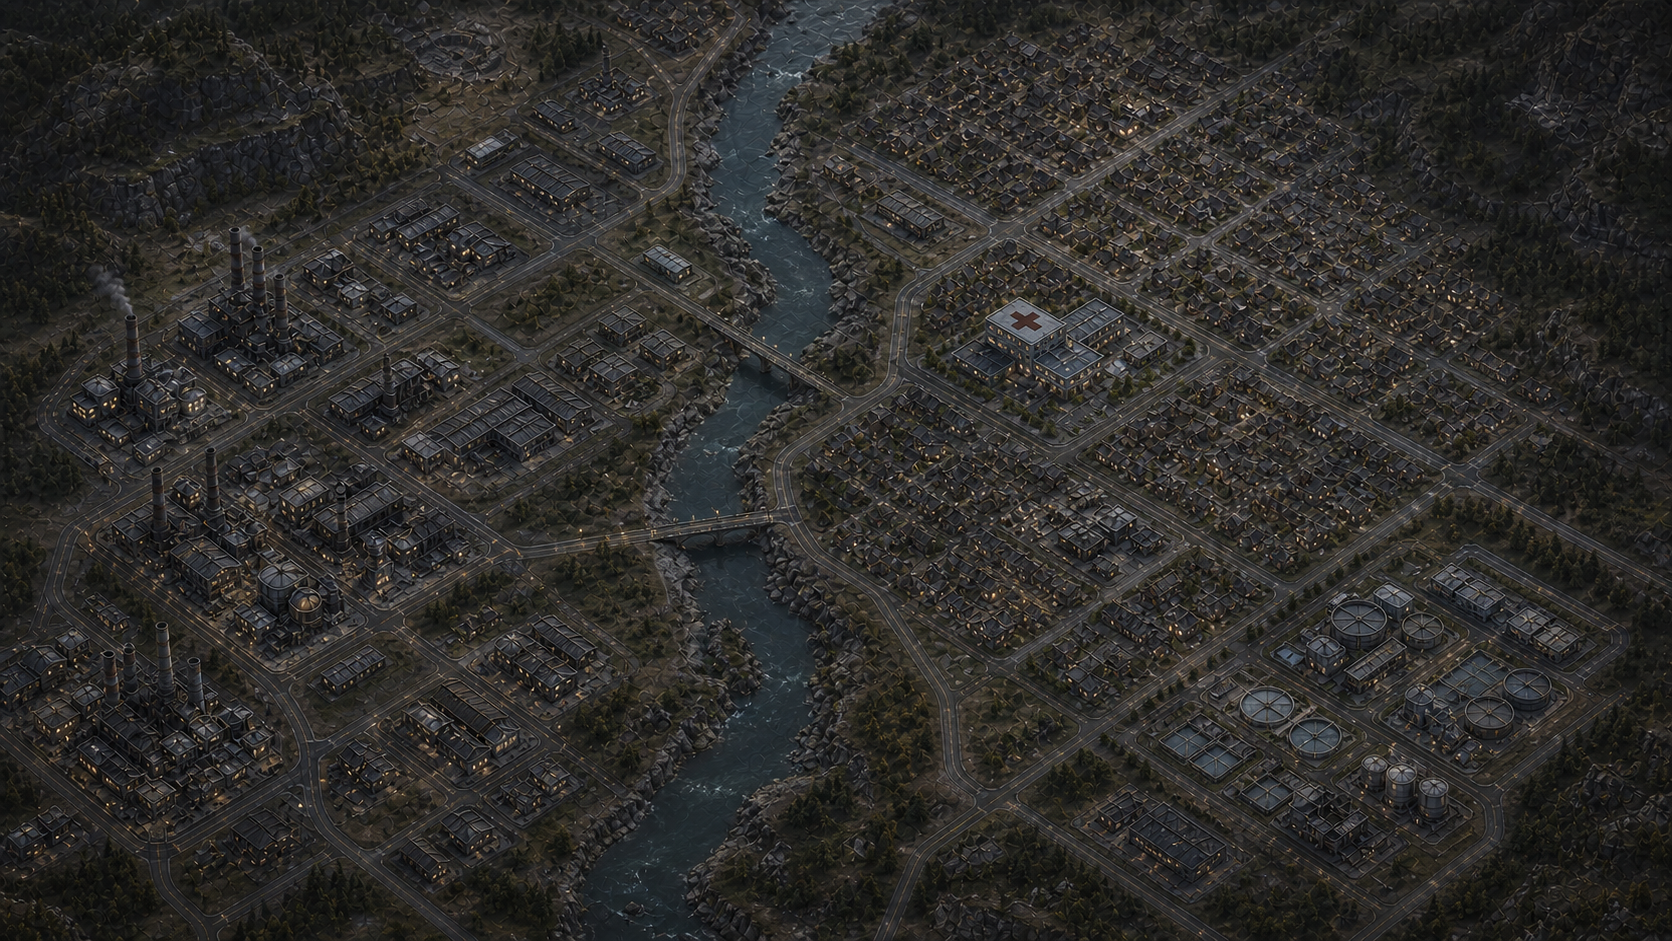
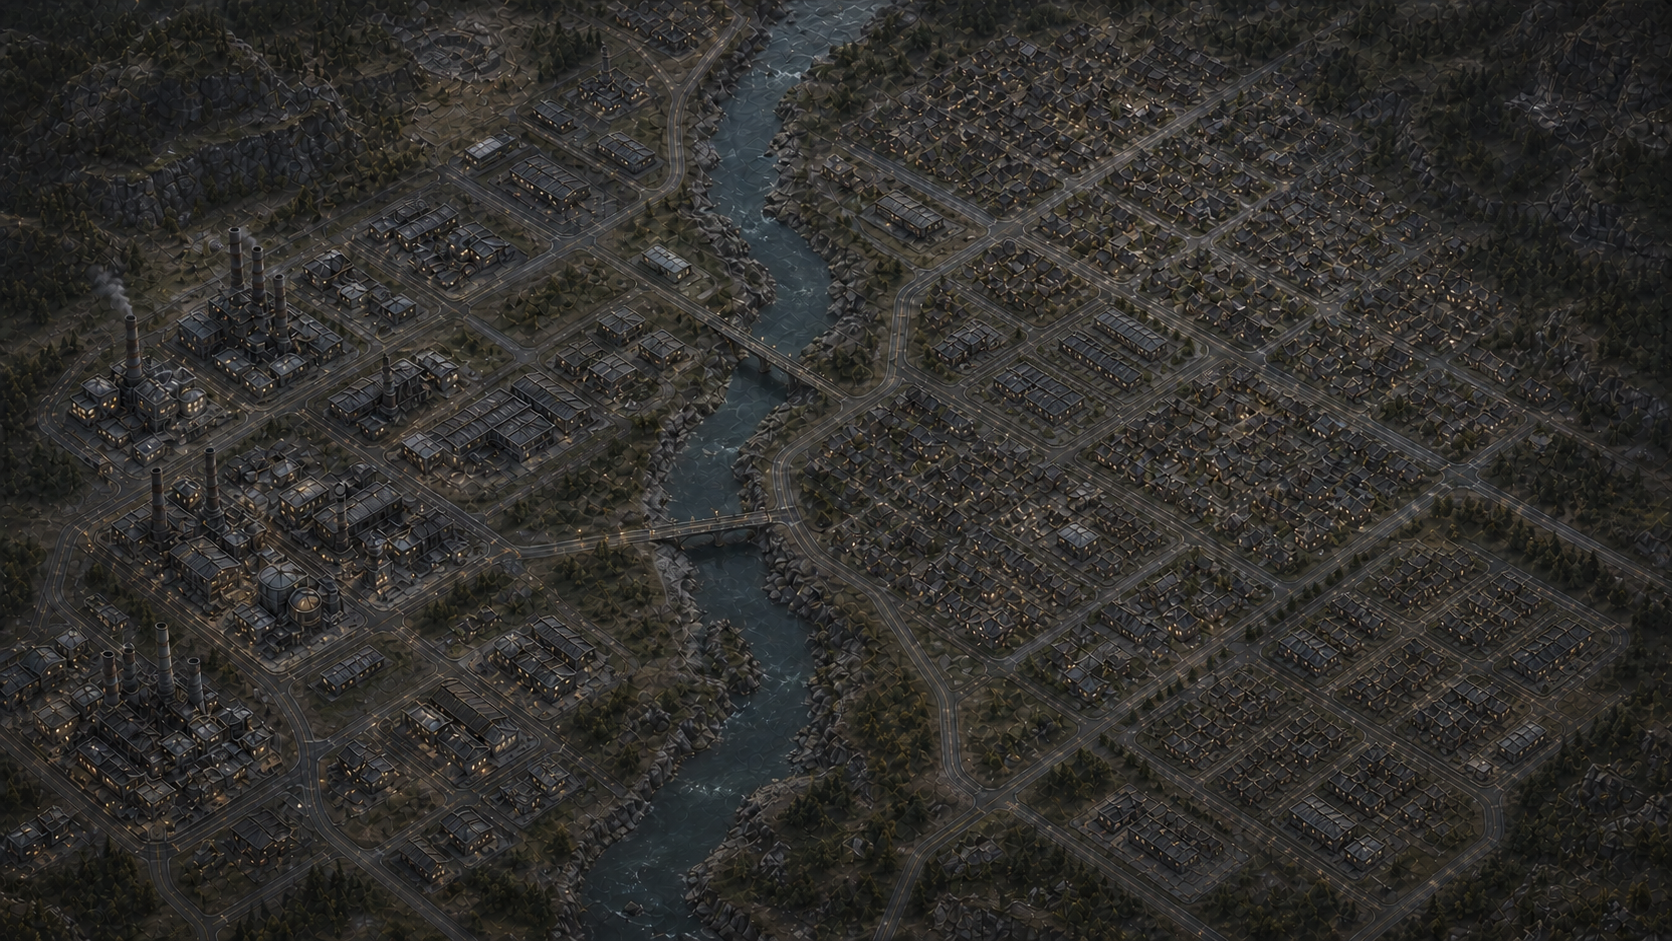
Close visual alignment review findings

diff --git a/game/CommercialMain.cs b/game/CommercialMain.cs
@@ -1085,9 +1085,13 @@ internal sealed partial class CommercialMain : Control
                 window.Story?.Title ?? $"결정 경계 {index + 1}",
                 state));
         }
+        CommercialChapterResultRecord? presentedResult = _presentedResult ??
+            (core.CampaignComplete && core.ChapterResults.Count > 0
+                ? core.ChapterResults[^1]
+                : null);
         steps.Add(new CommercialTimelineStep(
             "결과",
-            chapter.StandardResult.Title,
+            presentedResult?.Story.Title ?? chapter.StandardResult.Title,
             showingResult ? CommercialTimelineStepState.Current : CommercialTimelineStepState.Upcoming));
         string progress = showingResult
             ? "운영 결과 확정"

diff --git a/game/CommercialMain.Smoke.cs b/game/CommercialMain.Smoke.cs
@@ -636,6 +636,8 @@ internal sealed partial class CommercialMain
                 checkpoint.ChapterResults.Count == 4 &&
                 fact.Supplied && fact.SourceNodeId is not null &&
                 checkpoint.Construction.World.Edges.Any(item => item.EdgeId == "PLAYER_EDGE_1") &&
+                _timeline.CurrentStepLabel == "결과" &&
+                _timeline.AccessibilityName.Contains(result.Story.Title, StringComparison.Ordinal) &&
                 _panel.AccessibilityName.Contains("실제 의무", StringComparison.Ordinal) &&
                 _panel.AccessibilityName.Contains("정수장", StringComparison.Ordinal) &&
                 _panel.AccessibilityName.Contains("도시 약속 · 지킴", StringComparison.Ordinal) &&

diff --git a/game/CommercialMapView.cs b/game/CommercialMapView.cs
@@ -602,8 +602,8 @@ internal sealed partial class CommercialMapView : Control
         {
             Vector2[] polygon = area.Polygon.Select(ToCanvas).ToArray();
             Color fill = area.Kind == TerrainKind.Water
-                ? new Color(Water, 0.34f)
-                : new Color(Building, 0.12f);
+                ? new Color(Water, 0.62f)
+                : new Color(Building, 0.18f);
             Color edge = area.Kind == TerrainKind.Water ? WaterLine : BuildingEdge;
             DrawColoredPolygon(polygon, fill);
             DrawPolyline(polygon.Append(polygon[0]).ToArray(), edge, 1.6f, true);

diff --git a/game/art/commercial-city-plate-v1.prompt.md b/game/art/commercial-city-plate-v1.prompt.md
@@ -3,11 +3,11 @@
 - Generated: 2026-08-21
 - Tool: OpenAI built-in ImageGen
 - Output: `commercial-city-plate-v1.png` (`1672×941`)
[2 lines of base64/hex data omitted]
 - References: `assets/01-grid-construction.png` through `assets/04-plant-siting.png`, used only for
   style, mood, camera angle, material and city-density guidance.
 
-## Final prompt
+## Base prompt
 
 ```text
 Use case: stylized-concept
@@ -21,4 +21,10 @@ Lighting/mood: moody late-afternoon-to-evening operational city, warm amber wind
 Color palette: charcoal, oxidized bronze, muted slate blue, deep river teal, warm amber lights; restrained contrast so bright cyan and amber live network overlays remain dominant
 Materials/textures: worn asphalt, concrete, river water, dark rooftops, industrial steel, subtle terrain relief
 Constraints: no text; no letters; no numbers; no UI panels; no borders; no icons; no logos; no watermark; no power lines; no cables; no pylons; no poles; no substations; no highlighted service circles; no route overlays; no warning zones; no dashed lines; no glowing network; no selection outlines; no readable signage. Keep the city plate visually useful beneath precise code-native gameplay overlays.
+```
+
+## Exact-review refinement prompt
+
+```text
+Edit this existing runtime game environment plate. Preserve the exact canvas aspect ratio, overall oblique top-down industrial Korean city composition, central north-to-south river, road network, dense neighborhoods, factories, warm evening windows, charcoal/bronze/teal palette, painterly texture, and restrained contrast. Remove every baked semantic facility landmark that could be mistaken for authoritative gameplay data: remove the red-cross hospital and its recognizable medical campus, remove all circular water-treatment tanks/basins and water-utility complex, remove any distinctive civic or utility iconography. Replace those areas seamlessly with generic low-rise residential, municipal, workshop, and warehouse blocks matching their surroundings. Do not add or move power infrastructure. No text, letters, numbers, UI, borders, icons, logos, watermark, power lines, cables, pylons, poles, substations, service circles, route overlays, warning zones, dashed lines, glowing network, selection outlines, or readable signage. The central river remains atmospheric only; live code-native overlays will define exact build-blocking terrain and facilities.
 ```

diff --git a/ASSET_MANIFEST.md b/ASSET_MANIFEST.md
@@ -4,7 +4,7 @@
 
 | 자산 | 형태와 출처 | 권리·라이선스 경계 |
 |---|---|---|
[2 lines of base64/hex data omitted]
 | 실제 망·시설·상태 pattern·사건 timeline·네 고정 인물 초상 | `CommercialMapView.cs`, `CommercialEventTimeline.cs`, `CommercialPortrait.cs`가 그리는 저장소 자체 code-native 2D 표현 | Gridworks 자체 저작물. 공개 라이선스 없음. 내부 후보에만 포함 |
 | 도시 환경음·날씨 layer·발주·완공·통전·차단·경고·결과 cue·두 motif | `ReleaseAudio.cs`가 실행 중 생성하는 결정적 mono PCM16 파형. 외부 음원 sample 없음 | Gridworks 자체 저작물. 공개 라이선스 없음. 내부 후보에만 포함 |
 | app icon | `game/icon.svg`, 저장소 자체 vector | Gridworks 자체 저작물. 공개 라이선스 없음. 내부 후보에만 포함 |

diff --git a/playtests/commercial-2d/LAYOUT_EVIDENCE.md b/playtests/commercial-2d/LAYOUT_EVIDENCE.md
@@ -18,9 +18,9 @@
 
 - 실제 지도·panel 입력으로 첫 변전소와 두 선로를 완공했다. 발전 접속점→전체 6구간→동부 생활권
   접속점을 굵은 외곽선, 고정 흐름점, 접속점 ring과 시설 icon으로 함께 강조한다.
-- 도시 plate는 네 concept의 사선 도시 밀도·강·주거·산업·의료 분위기를 사용하지만 실제 전력선,
-  시설 상태와 위험구역은 v2 좌표의 code-native overlay만 그린다. 비활성 위험구역은 낮은 대비
-  경계만 남고 현재 사건 구역만 pattern과 이름을 펼친다.
+- 도시 plate는 네 concept의 사선 도시 밀도·강·주거·산업 분위기를 사용하되 의료·정수 landmark를
+  굽지 않는다. 실제 전력선, 시설 상태, 건물·수면과 위험구역은 v2 좌표의 code-native overlay만
+  권위로 그린다. 비활성 위험구역은 낮은 대비 경계만 남고 현재 사건 구역만 pattern과 이름을 펼친다.
 - Header는 장·현재 경계·현금·`필수 공급 1/1 ✓`를 표시한다. 오른쪽 inspector는 선택 수요, 실제
   경로, 최소 열여유, 시설 상태를 접근성 문장에도 포함한다.
 - 하단 사건 bar는 `브리핑 → 첫 입주 점등 → 결과`를 표시하고 현재 경계와 공사 `278/800분`을
